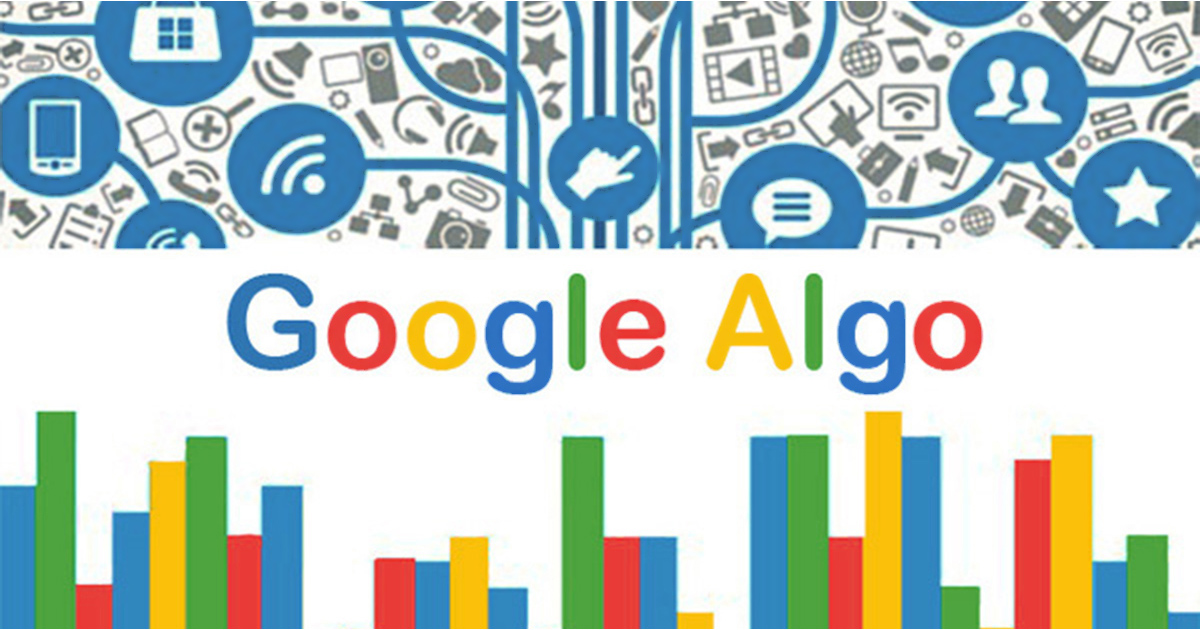
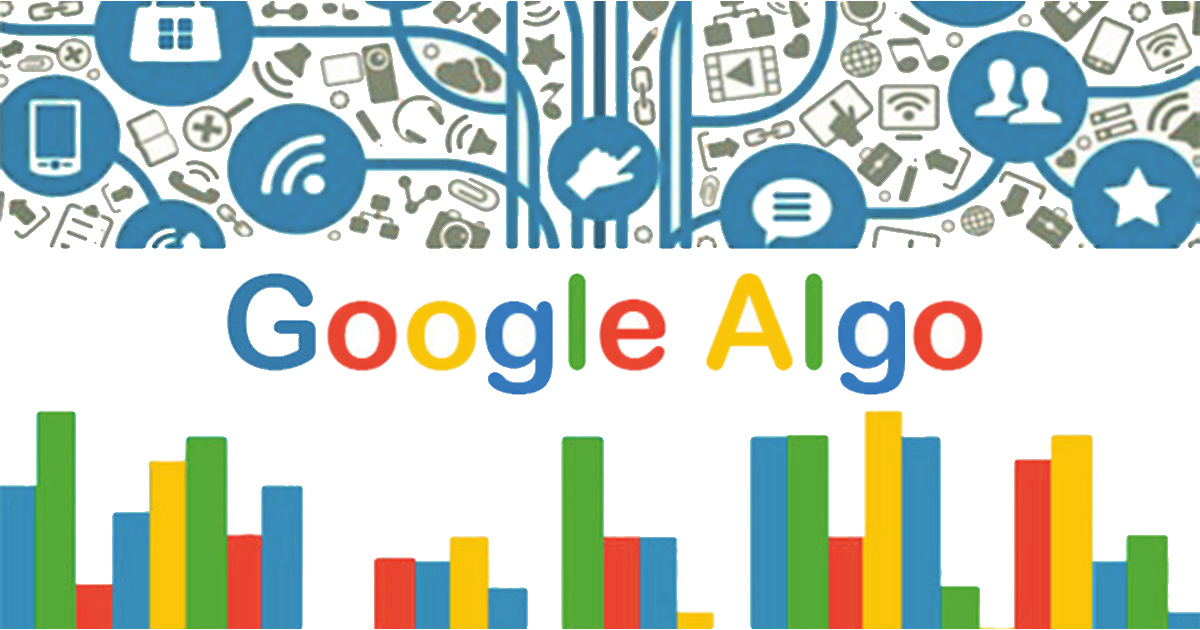
Larger image for OG

diff --git a/source/_includes/head.html b/source/_includes/head.html
@@ -61,12 +61,12 @@
 <link rel="alternate" type="application/atom+xml" href="{{ site.url }}/ru/feed.xml" title="{{site.t.title.ru}}" />
 <meta property="og:type" content="website" /> {% endif %}
 {% if page.layout == "post" %}
-<meta name="twitter:card" content="summary" />
-<meta name="twitter:site" content="@olyavo" />
+<meta name="twitter:card" content="{%-if page.image-%}summary_large_image{%-else-%}summary{%-endif-%}" />
+<meta name="twitter:creator" content="@olyavo" />
 <meta name="twitter:title" content="{{ title }}" />
 <meta name="twitter:description" content="{{ page.snippet }}" /> {% if page.image %}
-<meta name="twitter:image" content="{{ site.url }}/images/posts/{{ page.image }}" />
-<meta property="og:image" content="{{ site.url }}/images/posts/{{ page.image }}" /> {% endif %}
+<meta name="twitter:image" content="{{ site.url }}/images/posts/large/{{ page.image }}" />
+<meta property="og:image" content="{{ site.url }}/images/posts/large/{{ page.image }}" /> {% endif %}
 <meta property="og:type" content="article" />
 <link href="https://www.gstatic.com/" rel="preconnect" crossorigin> 
 <link href="https://www.google.com" rel="dns-prefetch">
